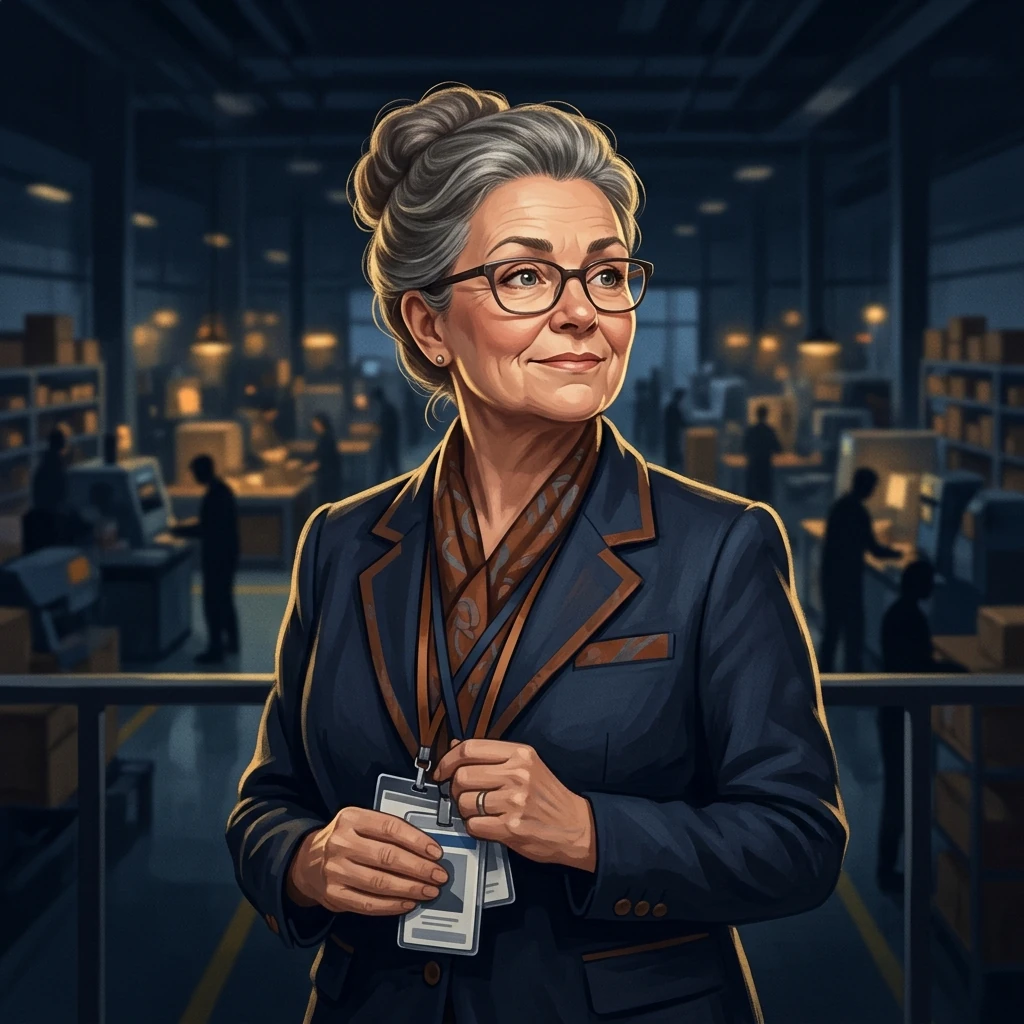
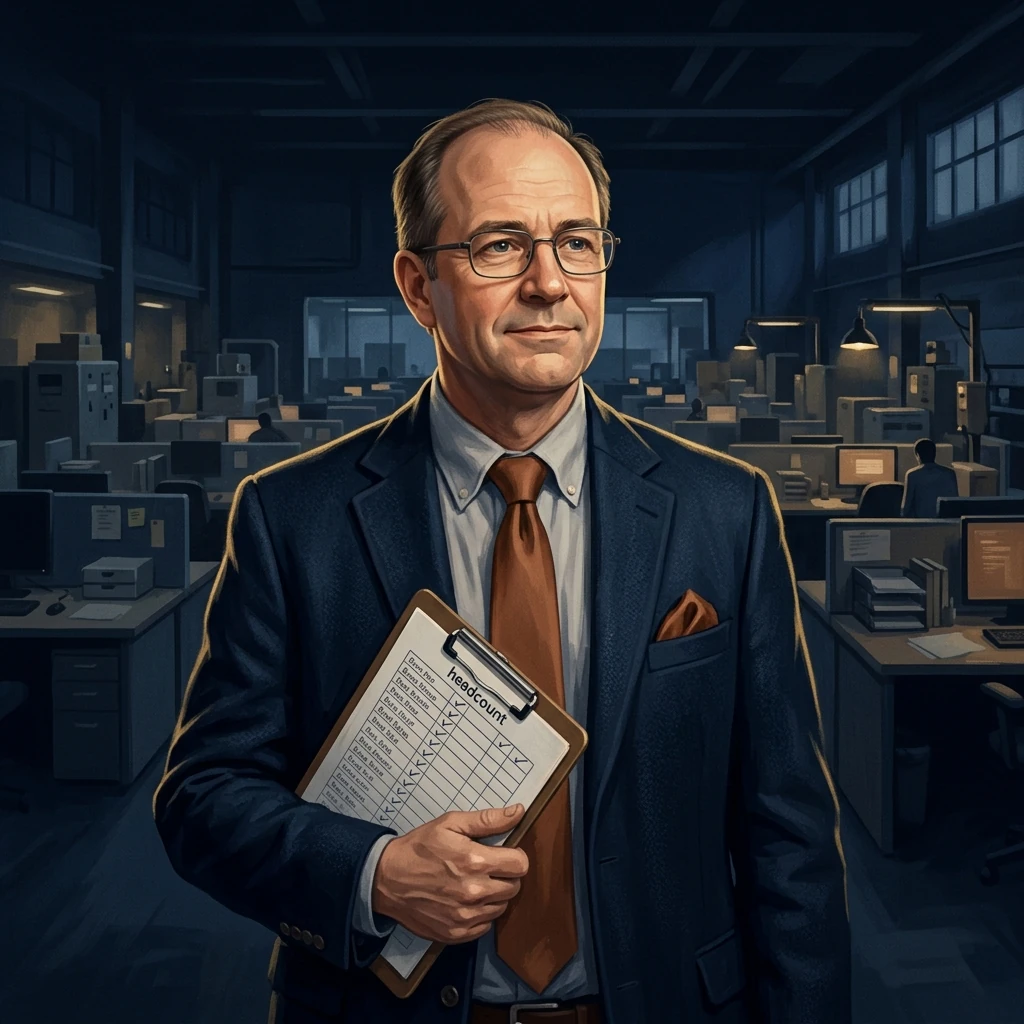
illustration : atelier-responsable-pole (image, registre, art:)

diff --git a/src/data/management.ts b/src/data/management.ts
@@ -153,7 +153,6 @@ export const MANAGEMENT_CARDS: PlanqueCard[] = [
     },
     attacks: [{ name: 'Deadline', cost: ['MANAGEMENT', 'INCOLORE'], damage: 50, text: 'Le Planqué adverse tombe sur une échéance impossible. Elle a été fixée par courriel, sans accusé de lecture.' }],
     flavor: 'Il manage par mail. Il ne lit pas les réponses.',
-    art: 'management-manager-proximite.webp'
   }),
   base({
     id: 'management-responsable-projet',

diff --git a/src/data/atelier.ts b/src/data/atelier.ts
@@ -63,7 +63,6 @@ export const ATELIER_CARDS: PlanqueCard[] = [
     retreat: 1,
     attacks: [{ name: 'Réglage', cost: ['ATELIER'], damage: 20, text: 'Le Planqué adverse est réglé au tournevis. La mesure, elle, est faite sur tableur.' }],
     flavor: 'Il règle la lunette à la main. La mesure est faite sur tableur.',
-    art: 'atelier-opticien.webp'
   }),
   base({
     id: 'atelier-rpo',

diff --git a/design/illustrations/README.md b/design/illustrations/README.md
@@ -215,3 +215,4 @@ au lieu d'afficher un aplat en silence. Le champ `art` reste le **nom de fichier
 - 2026-10-26 · `management-entretien-annuel` · modèle `NARWHAL` · graine `419644616` · `management-entretien-annuel.webp`
 - 2026-10-26 · `management-jeune-manager` · modèle `NARWHAL` · graine `1089462067` · `management-jeune-manager.webp`
 - 2026-10-26 · `management-manager-proximite` · modèle `NARWHAL` · graine `1044749969` · `management-manager-proximite.webp`
+- 2026-10-26 · `atelier-responsable-pole` · modèle `NARWHAL` · graine `1800782826` · `atelier-responsable-pole.webp`
